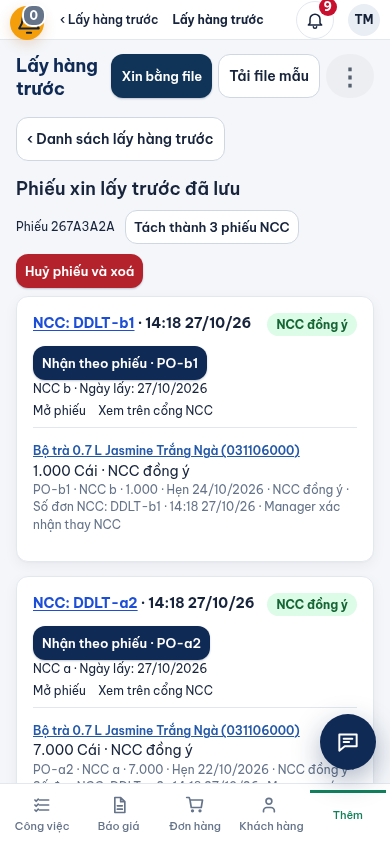
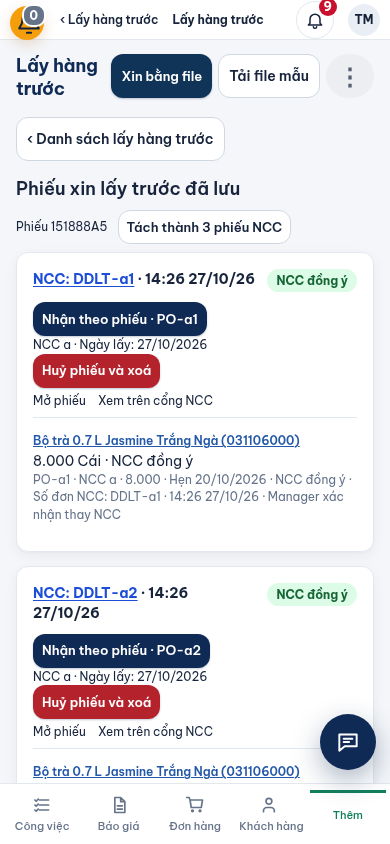
fix: cancel individual supplier slips from their own cards atomically

diff --git a/trial-ui/purchase-early-requests.js b/trial-ui/purchase-early-requests.js
@@ -48,7 +48,7 @@ export function initEarlyRequests({api,host,canWrite=()=>false,portal=false,supp
     if(!portal&&canViewPortal)for(const request of requests){
       const groups=supplierSlips(request),bar=el('div','row-gap');bar.append(el('span','small','Phiếu '+request.id.slice(0,8).toUpperCase()));
       if(groups.length>1)bar.append(btn('Tách thành '+groups.length+' phiếu NCC',()=>changeRequest(request,'split')));
-      bar.append(btn(request.requestStatus==='submitted'?'Huỷ phiếu và xoá':groups.length>1?'Xoá toàn bộ phiếu gốc':'Xoá phiếu',()=>changeRequest(request,request.requestStatus==='submitted'?'cancel-delete':'delete'),'btn primary danger-bg small'));operations.append(bar);
+      operations.append(bar);
     }
 
     for(const request of requests.flatMap(r=>!portal&&r.requestStatus==='submitted'?supplierSlips(r):[r])) {
@@ -73,6 +73,10 @@ export function initEarlyRequests({api,host,canWrite=()=>false,portal=false,supp
           receive.href='#/purchases/'+encodeURIComponent(orderId)+'?receive=1&earlyRequestId='+encodeURIComponent(request.id);head.append(receive);}
       }
       card.append(head,el('p','small',(request.supplierName?request.supplierName+' · ':'')+'Ngày lấy: '+date(request.pickupDate)));if(request.groupKey)card.dataset.supplierSlip=request.groupKey;
+      if(!portal&&canViewPortal){
+        const actions=el('div','row-gap early-slip-actions');actions.dataset.mobileActions='off';
+        actions.append(btn(request.requestStatus==='submitted'?'Huỷ phiếu và xoá':'Xoá phiếu',()=>changeRequest(request,request.requestStatus==='submitted'?'cancel-slip':'delete'),'btn primary danger-bg small'));card.append(actions);
+      }
       if(!portal) {
         const open=el('a','small','Mở phiếu');open.href=requestHref(request.id);card.append(open);
         if(request.requestStatus==='draft'&&canWrite()) card.append(btn('Sửa phiếu nháp',()=>edit(request)));
@@ -111,16 +115,18 @@ export function initEarlyRequests({api,host,canWrite=()=>false,portal=false,supp
   }
   function changeRequest(request,action,reload=true){
     if(batchBusy||confirmDialog)return;
-    const remove=action==='delete'||action==='cancel-delete',cancel=action==='cancel-delete',modal=confirmDialog=el('dialog','modal early-request-dialog'),head=el('div','modal-head'),body=el('div','modal-body'),foot=el('div','modal-foot');let busy=false;
+    const slip=action==='cancel-slip',remove=action==='delete'||action==='cancel-delete'||slip,cancel=action==='cancel-delete'||slip,modal=confirmDialog=el('dialog','modal early-request-dialog'),head=el('div','modal-head'),body=el('div','modal-body'),foot=el('div','modal-foot');let busy=false;
     const close=btn('Đóng',()=>{if(!busy)modal.close();});head.append(el('h2','',cancel?'Huỷ phiếu xin hàng và xoá':remove?'Xoá phiếu xin hàng':'Tách theo số đơn NCC'),close);
     const groups=supplierSlips(request);
-    body.append(el('p','',remove?(cancel?'Huỷ yêu cầu xin lấy trước và xoá toàn bộ phiếu ':'Xoá toàn bộ phiếu ')+request.id.slice(0,8).toUpperCase()+', gồm '+groups.length+' nhóm nguồn và '+request.lines.length+' mã hàng.':'Lưu '+groups.length+' phiếu riêng theo NCC + số đơn NCC; giữ nguyên số lượng và trạng thái phản hồi.'));
+    body.append(el('p','',slip?'Huỷ và xoá '+request.slipLabel+', gồm '+request.lines.length+' mã hàng.':remove?(cancel?'Huỷ yêu cầu xin lấy trước và xoá toàn bộ phiếu ':'Xoá toàn bộ phiếu ')+request.id.slice(0,8).toUpperCase()+', gồm '+groups.length+' nhóm nguồn và '+request.lines.length+' mã hàng.':'Lưu '+groups.length+' phiếu riêng theo NCC + số đơn NCC; giữ nguyên số lượng và trạng thái phản hồi.'));
+    if(slip)body.append(el('p','','Chỉ huỷ phiếu NCC này. Các phiếu NCC khác được giữ nguyên.'));
     for(const group of groups)body.append(el('p','small',group.supplierName+' · '+group.slipLabel+' · '+group.lines.map(l=>l.sku+' × '+number(l.quantity)).join('; ')));
     body.append(el('p','muted small',cancel?'Sau xác nhận, phiếu không còn trên CRM và cổng NCC, không thể tiếp tục nhận theo phiếu này. Phiếu đã phát sinh nhận hàng sẽ bị chặn. Đơn mua NCC, tồn kho và nhật ký đối soát được giữ nguyên.':'Phiếu đã phát sinh nhận hàng sẽ bị chặn. Không thay đổi tồn kho hoặc xoá đơn mua NCC.'));
     const error=el('p','error');error.setAttribute('role','alert');body.append(error);
     const submit=btn(cancel?'Xác nhận huỷ và xoá':remove?'Xác nhận xoá phiếu':'Xác nhận tách phiếu',async()=>{
       if(busy)return;busy=batchBusy=true;close.disabled=submit.disabled=true;syncBatch();error.textContent='';
-      try{await api('/purchase-early-requests/'+encodeURIComponent(request.id)+(remove?'':'/split'),remove?'DELETE':'POST',{});modal.close();
+      try{const result=await api('/purchase-early-requests/'+encodeURIComponent(request.id)+(slip?'/cancel-slip':remove?'':'/split'),remove&&!slip?'DELETE':'POST',slip?{allocationIds:request.lines.flatMap(l=>l.allocations.map(a=>a.id))}:{});modal.close();
+        if(slip&&(result.remainingRequestIds?.length||currentRequest()&&currentRequest()!==request.id)){const remaining=await load(currentRequest());if(remaining?.length){await onSaved(request);return;}}
         if(remove){await onDeleted(request);if(reload){if(!currentRequest())await load();else list.replaceChildren(el('p','muted','Đã xoá phiếu.'));}}else{await load(currentRequest());await onSaved(request);}
       }catch(e){error.textContent=e.message||'Không xử lý được phiếu. Tải lại để kiểm tra.';}
       finally{busy=batchBusy=false;close.disabled=submit.disabled=false;syncBatch();}

diff --git a/tests/app/early-request-delete-split.test.ts b/tests/app/early-request-delete-split.test.ts
@@ -47,3 +47,45 @@ test('split old submitted requests preserves responses; linked receipt blocks de
  await f.call('/purchase-early-requests/'+plain.data.id,c.mgr,'DELETE',{});
  assert.equal((await f.call('/purchase-early-requests',c.mgr,'POST',{clientKey:'delete-replay-test',lines:[{sku:'031106000',quantity:1}]})).status,409);
 });
+
+test('Manager cancels one accepted supplier slip atomically, preserving siblings and replaying safely',async()=>{
+ const f=await setupEarly(),c=f.cookies;
+ const made=await f.call('/purchase-early-requests',c.mgr,'POST',{...body,clientKey:'cancel-one-slip',groupBySupplierOrder:false});assert.equal(made.status,201);
+ const id=made.data.id;assert.equal((await f.call('/purchase-early-requests/'+id+'/submit',c.mgr,'POST',{revision:made.data.request.revision})).status,200);
+ const before=(await f.call('/purchase-early-requests?id='+id,c.mgr)).data.requests[0];
+ const target=before.lines.flatMap((l:any)=>l.allocations).filter((a:any)=>a.orderId==='a1');
+ for(const l of before.lines)if(l.allocations.some((a:any)=>a.supplierId==='a'))assert.equal((await f.call('/purchase-early-request-lines/'+l.id+'/manager-confirm',c.mgr,'POST',{supplierId:'a'})).status,200);
+ const path='/purchase-early-requests/'+id+'/cancel-slip',payload={allocationIds:target.map((a:any)=>a.id)};
+ for(const role of ['sa','kho','ncc'])assert.equal((await f.call(path,c[role],'POST',payload)).status,403);
+ assert.equal((await f.call(path,c.mgr,'POST',{allocationIds:[...payload.allocationIds,'unknown']})).status,409);
+ const result=await f.call(path,c.mgr,'POST',payload);assert.equal(result.status,200,JSON.stringify(result.data));assert.equal(result.data.remainingRequestIds.length,3);
+ const remaining=(await f.call('/purchase-early-requests?id='+id,c.mgr)).data.requests;
+ const parts=remaining.flatMap((r:any)=>r.lines.flatMap((l:any)=>l.allocations));assert.equal(parts.some((a:any)=>a.orderId==='a1'),false);assert.equal(parts.find((a:any)=>a.orderId==='a2').quantity,7000);assert.equal(parts.find((a:any)=>a.orderId==='a2').status,'accepted');
+ assert.equal((await f.call(path,c.mgr,'POST',payload)).data.replayed,true);
+ assert.equal((await f.client.query<any>('select count(*)::int n from stock_moves')).rows[0].n,0);
+});
+
+test('receipt provenance blocks per-slip cancellation without partially splitting the parent',async()=>{
+ const f=await setupEarly(),c=f.cookies;
+ const made=await f.call('/purchase-early-requests',c.mgr,'POST',{...body,clientKey:'cancel-received-slip',groupBySupplierOrder:false});const id=made.data.id;
+ await f.call('/purchase-early-requests/'+id+'/submit',c.mgr,'POST',{revision:made.data.request.revision});
+ const request=(await f.call('/purchase-early-requests?id='+id,c.mgr)).data.requests[0],a=request.lines[0].allocations[0];
+ await f.db.insert(supplierOrderEvents).values({id:'cancel-receipt',shipmentId:a.orderId,at:new Date().toISOString(),action:'receive',data:JSON.stringify({earlyRequestId:id})});
+ assert.equal((await f.call('/purchase-early-requests/'+id+'/cancel-slip',c.mgr,'POST',{allocationIds:[a.id]})).status,409);
+ assert.equal((await f.call('/purchase-early-requests?id='+id,c.mgr)).data.requests[0].id,id);
+ assert.equal((await f.client.query<any>("select count(*)::int n from audit_logs where action='early-request-split' and entity_id=$1",[id])).rows[0].n,0);
+});
+
+test('per-slip cancellation requires every allocation sharing the supplier reference',async()=>{
+ const f=await setupEarly(),c=f.cookies;
+ for(const id of ['a1','a2'])await f.db.update(incomingShipments).set({supplierInternalOrderNumber:'NCC-SAME'}).where(eq(incomingShipments.id,id));
+ const made=await f.call('/purchase-early-requests',c.mgr,'POST',{clientKey:'cancel-whole-supplier-slip',pickupDate:'2026-10-27',lines:[{sku:'031106000',quantity:16000}]});const id=made.data.id;
+ await f.call('/purchase-early-requests/'+id+'/submit',c.mgr,'POST',{revision:made.data.request.revision});
+ const parts=(await f.call('/purchase-early-requests?id='+id,c.mgr)).data.requests[0].lines[0].allocations,own=parts.filter((a:any)=>a.supplierId==='a');
+ assert.equal(own.length,2);
+ const path='/purchase-early-requests/'+id+'/cancel-slip';assert.equal((await f.call(path,c.mgr,'POST',{allocationIds:[own[0].id]})).status,400);
+ assert.equal((await f.call(path,c.mgr,'POST',{allocationIds:[own[0].id,parts.find((a:any)=>a.supplierId==='b').id]})).status,409);
+ assert.equal((await f.call('/purchase-early-requests?id='+id,c.mgr)).data.requests[0].id,id);
+ assert.equal((await f.call(path,c.mgr,'POST',{allocationIds:own.map((a:any)=>a.id)})).status,200);
+ const remaining=(await f.call('/purchase-early-requests?id='+id,c.mgr)).data.requests;assert.equal(remaining.length,1);assert.equal(remaining[0].lines[0].quantity,1000);assert.equal(remaining[0].lines[0].allocations[0].supplierId,'b');
+});

diff --git a/src/modules/suppliers/api/early-request-lifecycle.ts b/src/modules/suppliers/api/early-request-lifecycle.ts
@@ -1,4 +1,4 @@
-import {and,asc,desc,eq,inArray} from 'drizzle-orm';
+import {and,asc,desc,eq,inArray,isNull} from 'drizzle-orm';
 import {AppError} from '../../../core/errors.ts';
 import {auditLogs} from '../../../core/db/schema.ts';
 import {sha256Hex} from '../../staff/domain/session.ts';
@@ -52,4 +52,27 @@ export async function splitEarlyRequest(tx:Tx,id:string,actorId:string){
  }
  await tx.update(requests).set({deletedAt:now,deletedBy:actorId}).where(eq(requests.id,id));
  await record(tx,id,actorId,'early-request-split',{childIds,snapshot:s});return childIds;
+}
+
+/** Cancel exactly one displayed supplier/reference slip, atomically preserving its siblings. */
+export async function cancelEarlySlip(tx:Tx,id:string,allocationIds:string[],actorId:string){
+ const original=await snapshot(tx,id);
+ if(original.request.status!=='submitted')throw new AppError(409,'Chỉ huỷ từng phiếu NCC sau khi đã gửi.');
+ const key=(d:typeof original.details[number])=>JSON.stringify([d.a.supplierId,d.order.supplierInternalOrderNumber?.trim()? 'ncc':'crm',d.order.supplierInternalOrderNumber?.trim().toLocaleLowerCase('vi')||d.order.id]);
+ const chosen=original.details.filter(d=>allocationIds.includes(d.a.id));
+ if(chosen.length!==allocationIds.length||new Set(chosen.map(key)).size!==1)throw new AppError(409,'Phiếu NCC đã thay đổi. Tải lại trước khi huỷ.');
+ const group=original.details.filter(d=>key(d)===key(chosen[0]!));
+ if(group.length!==chosen.length)throw new AppError(400,'Phải chọn toàn bộ mã thuộc một phiếu NCC.');
+ const ids=await splitEarlyRequest(tx,id,actorId);
+ let target=id;
+ if(ids.length>1){
+  const targets=await tx.select({id:lines.requestId}).from(lines).innerJoin(allocations,eq(allocations.requestLineId,lines.id))
+   .where(and(inArray(lines.requestId,ids),inArray(allocations.purchaseLineId,chosen.map(d=>d.a.purchaseLineId))));
+  const matches=[...new Set(targets.map(t=>t.id))];
+  if(matches.length!==1)throw new AppError(409,'Không đối chiếu được phiếu NCC cần huỷ.');target=matches[0]!;
+ }
+ const result=await deleteEarlyRequest(tx,target,actorId);
+ if(!result.replayed)await record(tx,id,actorId,'early-request-cancel-slip',{targetId:target,allocationIds,supplierId:chosen[0]!.a.supplierId});
+ const remaining=await tx.select({id:requests.id}).from(requests).where(and(inArray(requests.id,ids),isNull(requests.deletedAt)));
+ return {...result,cancelledRequestId:target,remainingRequestIds:remaining.map(r=>r.id)};
 }

diff --git a/src/modules/suppliers/api/early-request-routes.ts b/src/modules/suppliers/api/early-request-routes.ts
@@ -14,7 +14,7 @@ import { canUsePurchasing, canReceive, canSendEarlyRequest } from '../domain/pur
 import { incomingBySku } from './incoming-by-sku.ts';
 import { isIsoDate } from '../domain/quantity.ts';
 import {resolveEarlyOrderSources,EarlySourceError} from '../domain/early-order-sources.ts';
-import {deleteEarlyRequest,splitEarlyRequest,splitResult} from './early-request-lifecycle.ts';
+import {deleteEarlyRequest,splitEarlyRequest,splitResult,cancelEarlySlip} from './early-request-lifecycle.ts';
 import {products} from '../../catalog/schema.ts';
 import type { Db, Member } from './purchase-store.ts';
 type Ctx = RouteContext<StaffEnv>;
@@ -230,6 +230,12 @@ export function registerEarlyRequestRoutes(router:Router<StaffEnv>) {
   router.delete('/purchase-early-requests/:id',async c=>{
     guard(c);if(me(c).role!=='manager')fail(403,'Chỉ Manager được xoá phiếu xin hàng.');
     return json({ok:true,...await c.env.db.transaction(tx=>deleteEarlyRequest(tx,c.params.id!,me(c).id))});
+  },'business');
+  router.post('/purchase-early-requests/:id/cancel-slip',async c=>{
+    guard(c);if(me(c).role!=='manager')fail(403,'Chỉ Manager được huỷ phiếu NCC.');
+    const body=await readJson(c.req,40000),ids=body.allocationIds;
+    if(!Array.isArray(ids)||!ids.length||ids.length>300||ids.some(id=>typeof id!=='string'||!id||id.length>200)||new Set(ids).size!==ids.length)fail(400,'Danh sách mã nguồn của phiếu không hợp lệ.');
+    return json({ok:true,...await c.env.db.transaction(tx=>cancelEarlySlip(tx,c.params.id!,ids as string[],me(c).id))});
   },'business');
   router.post('/purchase-early-requests/:id/split',async c=>{
     guard(c);if(me(c).role!=='manager')fail(403,'Chỉ Manager được tách phiếu đã lưu.');

diff --git a/trial-ui/early-request-page.css b/trial-ui/early-request-page.css
@@ -9,6 +9,7 @@
 .early-page-card p { overflow-wrap: anywhere; margin: 8px 0 0; }
 .early-page-card-head { display: flex; justify-content: space-between; gap: 8px; align-items: center; flex-wrap: wrap; }
 .early-page-card-head .data-link { font-weight: 700; }
+.early-slip-actions { margin: 8px 0; }
 .early-page-card-actions { display: flex; justify-content: flex-end; margin-top: 12px; }
 .early-page-pager { display: flex; justify-content: center; gap: 12px; margin: 16px 0; }
 .early-page-back { margin-bottom: 16px; }

diff --git a/docs/testing/early-cancel-visibility/README.md b/docs/testing/early-cancel-visibility/README.md
@@ -1,11 +1,21 @@
-# Nút huỷ/xoá dễ nhận biết
+# Huỷ/xoá trong từng phiếu NCC
 
-Ảnh người dùng cho thấy “Huỷ phiếu và xoá” đã có trên chi tiết, nhưng trông như chữ thường. Nguyên nhân: nút dùng `btn danger small`, trong khi stylesheet không định nghĩa `.btn.danger` nên nền và viền đều trong suốt.
+## Lỗi và hành vi sau sửa
 
-Dùng variant sẵn có `btn primary danger-bg` (nền đỏ, chữ trắng) trên danh sách và chi tiết. Nút xác nhận huỷ/xoá trong hộp thoại cũng dùng variant đỏ. Không thay quyền, API, trạng thái, điều kiện xoá, dữ liệu hay tồn kho.
+“Huỷ phiếu và xoá” trước đây nằm ngoài các thẻ NCC và dùng class không có màu/nền nên trông như chữ thường. Đặt nút đỏ, chữ trắng vào ngay đầu nội dung **từng thẻ phiếu NCC**, không gom vào menu ⋮. Bỏ nút xoá toàn bộ ở thanh thao tác chi tiết. Danh sách giữ nút đỏ trên từng phiếu gốc với xác nhận đầy đủ phạm vi.
 
-Validation:
+Bấm nút trong thẻ NCC chỉ huỷ phiếu NCC đó, kể cả NCC đã đồng ý. Xác nhận chỉ liệt kê nguồn và mã thuộc phiếu đang chọn. Các phiếu NCC còn lại giữ nguyên số lượng/trạng thái, tiếp tục hiện trên màn hình; khi huỷ hết mới trở về danh sách.
 
-- Typecheck, build UI và diff check đạt.
-- Browser scripts `early-list-actions.mjs` và `early-cancel-delete.mjs` chạy với router/PGlite cục bộ: danh sách và chi tiết ở 390/1280px; kiểm tra màu nền đỏ bằng computed style; hộp xác nhận trước khi ghi; Manager huỷ phiếu nhiều NCC đã đồng ý; phiếu có nhận hàng bị chặn; tài khoản kho không có nút; stock_moves không đổi; không lỗi JavaScript.
-- Ảnh đính kèm lấy từ dữ liệu thử cục bộ. Không xoá phiếu thật. Bộ test đầy đủ chạy tiếp trên CI.
+## Xử lý và giới hạn
+
+- Endpoint POST `/purchase-early-requests/:id/cancel-slip` chỉ dành cho Manager, kiểm tra tập allocationIds là toàn bộ một nhóm NCC/số đơn NCC. Từ chối tập thiếu, trộn nhóm hoặc nguồn đã đổi.
+- Dùng giao dịch có khoá và cơ chế tách/xoá hiện có: nếu phiếu gốc chứa nhiều nhóm, tách thành phiếu NCC rồi chỉ xoá mềm phiếu đích. Giữ lịch sử, ghi audit; link phiếu gốc tiếp tục mở các phiếu còn lại. Tách và huỷ cùng giao dịch, không để kết quả tách một phần nếu thất bại.
+- Giữ chặn nhận hàng hiện có: phiếu gốc đã có lịch sử nhận hàng không được tách/huỷ để đối soát. Không nới quyền, đổi schema hay ghi bút toán tồn kho, thanh toán, Sapo/GHN.
+- Dùng variant nút `primary danger-bg` sẵn có ở danh sách, từng thẻ chi tiết và nút xác nhận.
+
+## Validation
+
+- Typecheck, build UI, diff check đạt.
+- 10 test liên quan đạt: delete/split/cancel-slip (5), Manager UI (4), danh sách/phân trang (1). Bao gồm quyền Manager, giữ số lượng/trạng thái nhóm khác, gọi lại không huỷ thêm, chặn nhận hàng, từ chối tập mã thiếu hoặc trộn nhiều phiếu, không ghi stock_moves.
+- Hai browser script `early-list-actions.mjs` và `early-cancel-delete.mjs` chạy với router/PGlite cục bộ: danh sách và chi tiết ở 390/1280px, nền đỏ; xác nhận trước khi ghi; nhóm đã NCC đồng ý; huỷ lần lượt ba phiếu chỉ mất đúng phiếu chọn, giữ các phiếu khác và trở về danh sách khi hết; tài khoản kho không có nút; tồn không đổi; không lỗi JavaScript.
+- Ảnh đính kèm dùng dữ liệu thử cục bộ. Không xoá phiếu thật. Bộ test đầy đủ chạy tiếp trên CI.
